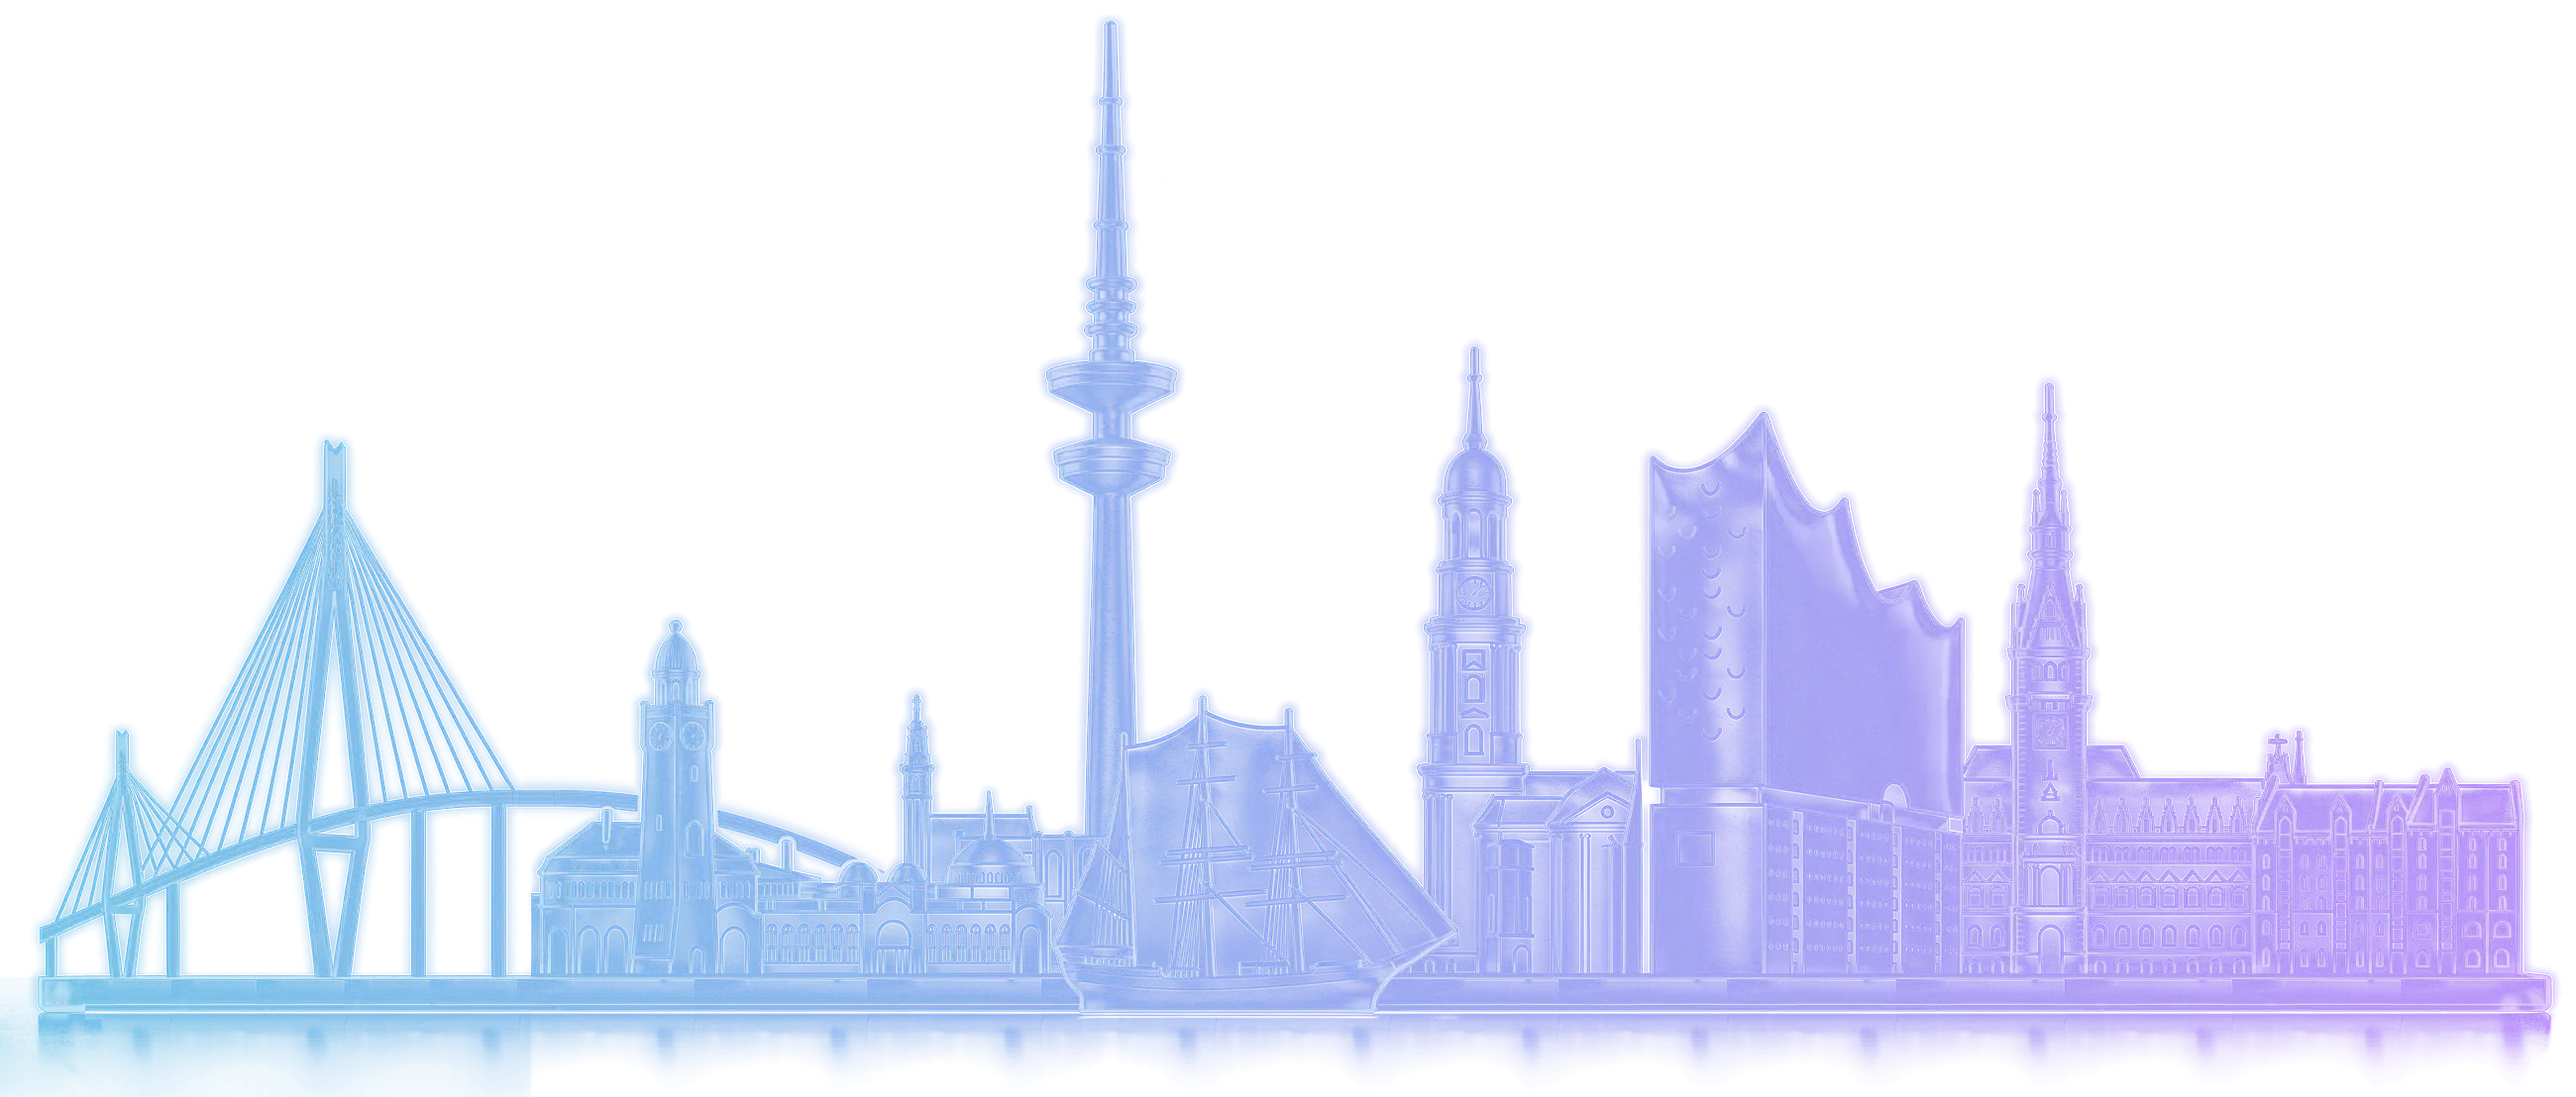
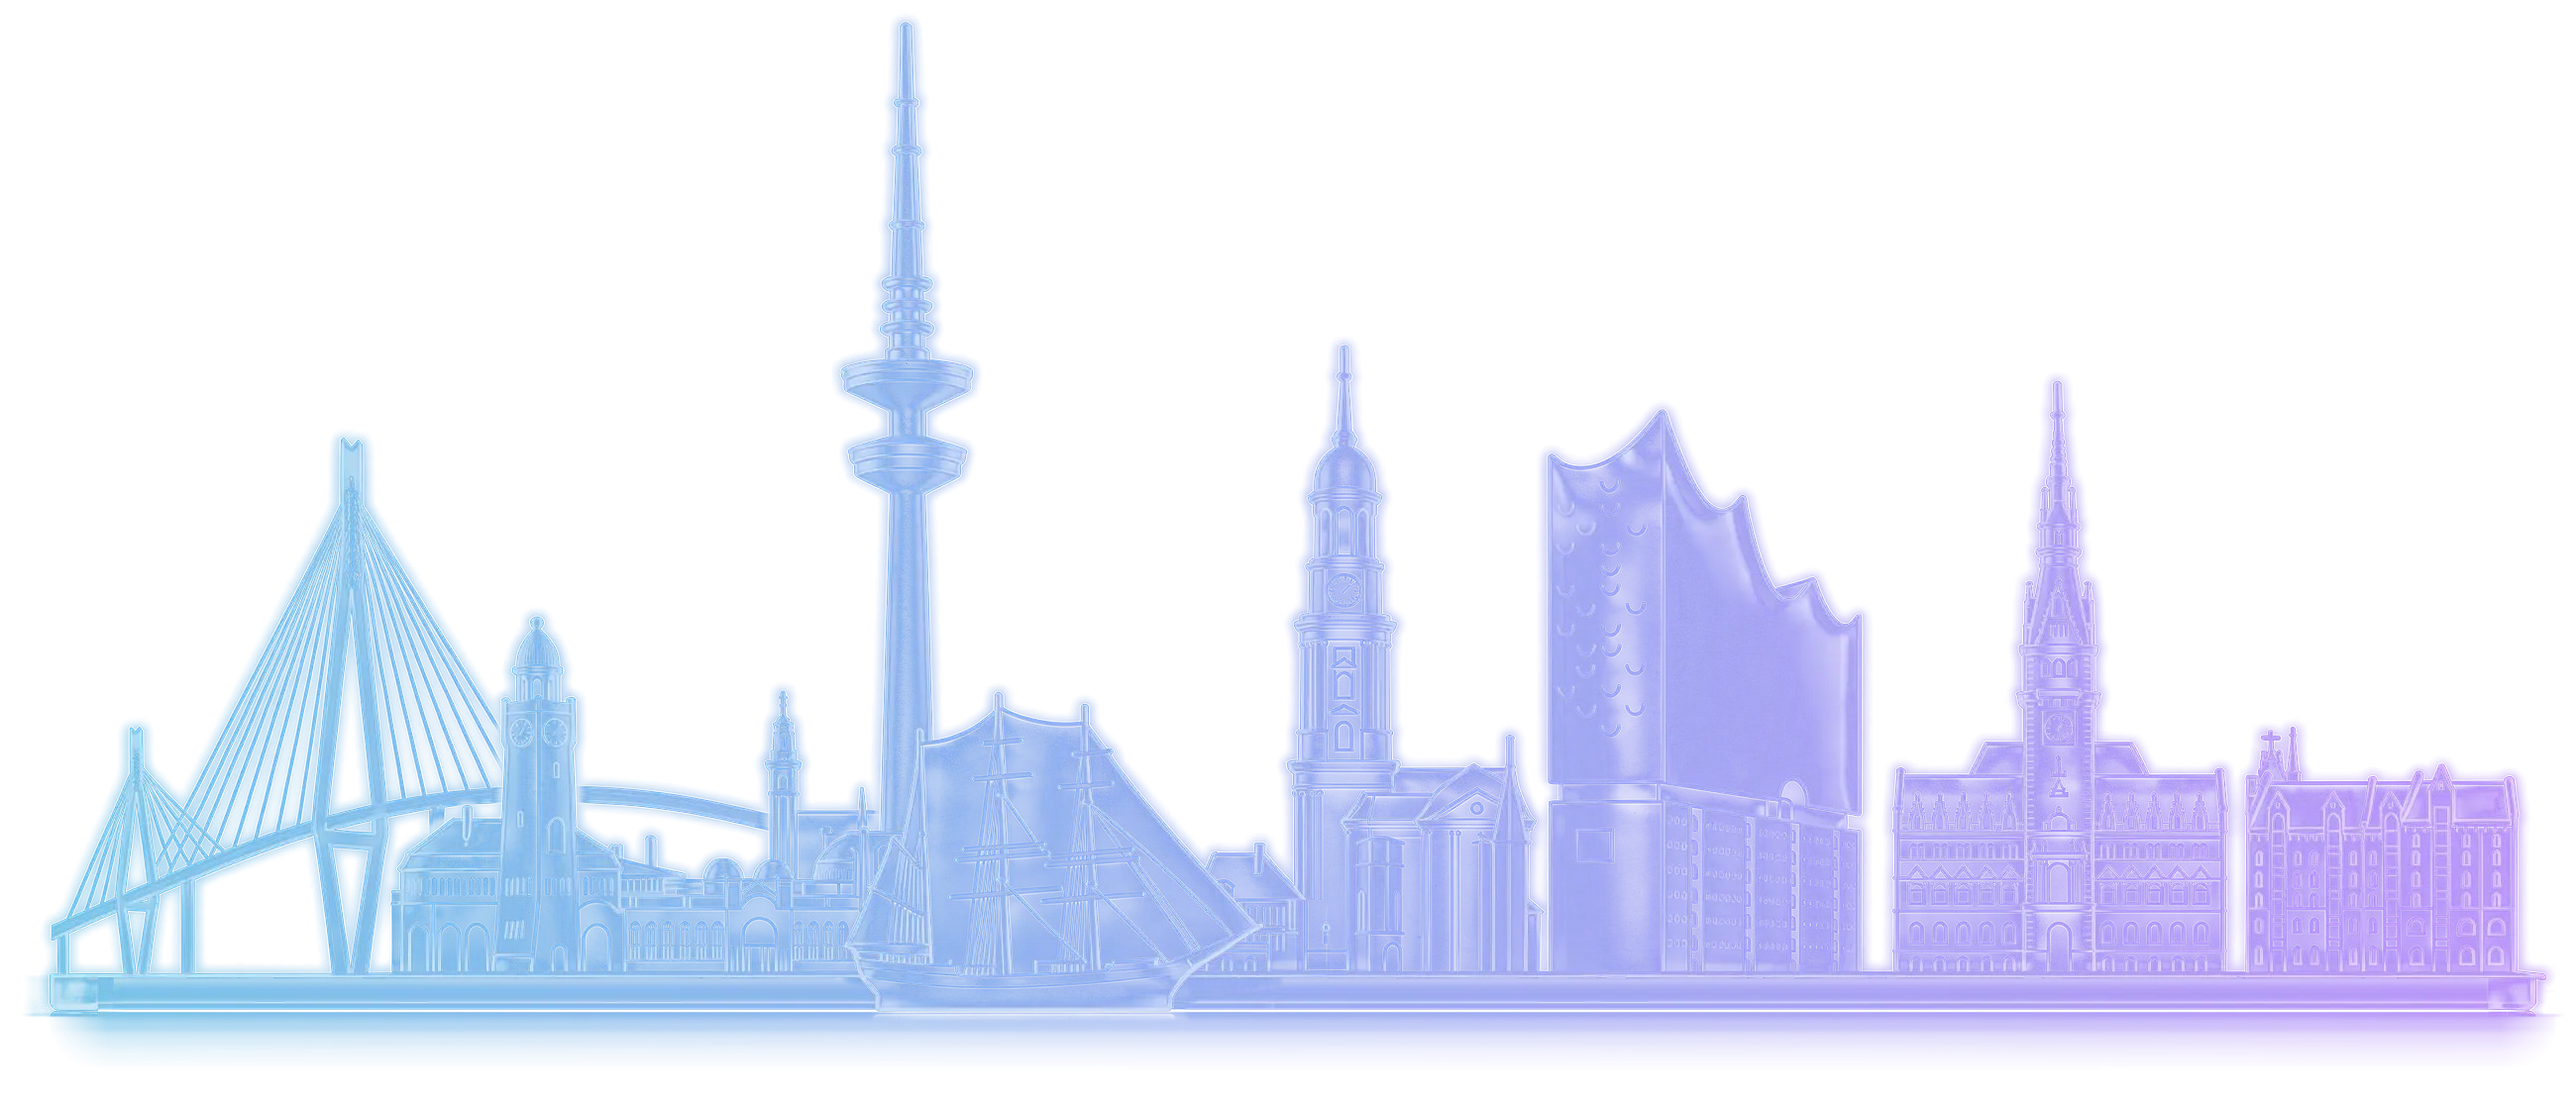
feat(lavender): skyline with more room between the buildings, even base plate
Everything right of the bridge moved left and spread out (the piers now
stand in front of the bridge); the base plate and its reflection are one
even band again, without the seams of the earlier rendering.

Claude-Session: https://claude.ai/code/session_01HutgGfgwiiTnT4X53NFX4e

Changed region(s): [[0.0, 0.0307, 0.9969, 1.0]]

diff --git a/src/components/lavender/HamburgGlass.tsx b/src/components/lavender/HamburgGlass.tsx
@@ -11,7 +11,7 @@ import { cn } from '@/components/ui/utils';
  * coloured blue to violet).
  *
  * Two congruent renderings with a transparent ground
- * (public/images/hamburg-glas-*.webp, 2600 × 1108): one unlit, one lit from
+ * (public/images/hamburg-glas-*.webp, 2600 × 1109): one unlit, one lit from
  * inside in the double star's colours. No blend mode, so the city may stand
  * in a sticky or transformed parent. At rest the city is dark; the lit rendering shows through an elliptical
  * mask that follows the pointer (styles: .lav-hamburg in globals.css).
@@ -30,13 +30,13 @@ import { cn } from '@/components/ui/utils';
 // From west to east, as the city lies along the Elbe.
 const LANDMARKS = [
   { x: 0.118, half: 0.09, y: 0.68, ry: 0.5 }, // Köhlbrandbrücke
-  { x: 0.308, half: 0.1, y: 0.78, ry: 0.4 }, // Landungsbrücken
-  { x: 0.432, half: 0.03, y: 0.45, ry: 0.9 }, // Fernsehturm
-  { x: 0.487, half: 0.078, y: 0.78, ry: 0.36 }, // Rickmer Rickmers
-  { x: 0.58, half: 0.045, y: 0.6, ry: 0.66 }, // Michel
-  { x: 0.7, half: 0.065, y: 0.64, ry: 0.56 }, // Elbphilharmonie
-  { x: 0.82, half: 0.06, y: 0.64, ry: 0.62 }, // Rathaus
-  { x: 0.928, half: 0.055, y: 0.8, ry: 0.3 }, // Speicherstadt
+  { x: 0.24, half: 0.09, y: 0.78, ry: 0.4 }, // Landungsbrücken
+  { x: 0.351, half: 0.03, y: 0.45, ry: 0.9 }, // Fernsehturm
+  { x: 0.408, half: 0.08, y: 0.78, ry: 0.36 }, // Rickmer Rickmers
+  { x: 0.536, half: 0.05, y: 0.6, ry: 0.66 }, // Michel
+  { x: 0.661, half: 0.063, y: 0.64, ry: 0.56 }, // Elbphilharmonie
+  { x: 0.8, half: 0.065, y: 0.64, ry: 0.62 }, // Rathaus
+  { x: 0.924, half: 0.055, y: 0.8, ry: 0.3 }, // Speicherstadt
 ] as const;
 
 type Light = { x: number; y: number; rx: number; ry: number; a: number };

diff --git a/src/components/lavender/nightSky.ts b/src/components/lavender/nightSky.ts
@@ -33,7 +33,7 @@ const DEFAULT_SOURCES = { double: '/images/nacht-stern-doppel.webp' };
 /** Mostly white, a few in the brand's light tints. */
 const TINTS = ['#ffffff', '#ffffff', '#ffffff', '#f5e1ff', '#bde3f4', '#bde3f4'];
 /** Height / width of the Hamburg rendering (HamburgGlass). */
-const SKYLINE_RATIO = 1108 / 2600;
+const SKYLINE_RATIO = 1109 / 2600;
 
 type FieldStar = { angle: number; radius: number; size: number; tint: string; rate: number; phase: number };
 /** One star glinting: which one, since when, for how long, and how long its cross gets (px). */

diff --git a/src/styles/globals.css b/src/styles/globals.css
@@ -857,7 +857,7 @@ html {
      round window that follows the pointer (HamburgGlass.tsx moves it). */
   .lav-hamburg {
     position: relative;
-    aspect-ratio: 2600 / 1108;
+    aspect-ratio: 2600 / 1109;
     touch-action: pan-y;
   }
   /* In the hero the headline stands in the sky above the skyline: from tablets

diff --git a/docs/design-migration.md b/docs/design-migration.md
@@ -220,10 +220,11 @@ Stand:
       (NightFooter.tsx: Schlusszeile, Glas-Skyline, Leiste mit „Based in Hamburg.“, Impressum,
       Datenschutz, LinkedIn, Nach oben) statt `ClosingBlock` / `Footer`. Sprünge zu Abschnitten
       laufen über `glide.ts` (folgt dem Ziel, auch wenn sich die Seite verschiebt). Die Skyline
-      ist eine neue Fassung (FLORA, FLUX 3; 2600 × 1108; seit 13.11. nachmittags mit den
+      ist eine neue Fassung (FLORA, FLUX 3; 2600 × 1109; seit 13.11. nachmittags mit den
       Gebäuden in der Reihenfolge von West nach Ost: Köhlbrandbrücke (statt der Hafenkräne; ihre
-      Fahrbahn läuft hinter den Landungsbrücken aus, das ist nachträglich angesetzt), Landungsbrücken, Fernsehturm,
-      Rickmer Rickmers, Michel, Elbphilharmonie, Rathaus, Speicherstadt; beleuchtet = dieselbe Fassung in
+      Fahrbahn läuft hinter den Landungsbrücken aus), Landungsbrücken, Fernsehturm,
+      Rickmer Rickmers, Michel, Elbphilharmonie, Rathaus, Speicherstadt, rechts mit Luft zwischen den
+      Gebäuden; Bodenplatte und Spiegelung nachträglich geglättet; beleuchtet = dieselbe Fassung in
       Blau/Lila eingefärbt). Durchsicht mit drei Skill-Sammlungen (taste-skill, impeccable,
       Emil Kowalski): Fokusring auf dunklem Grund, einheitliche Außenkanten, Abstände in den
       Textblöcken (16/24/32), Leistungen mit fester Höhe beim Tab-Wechsel, Autor neben dem
